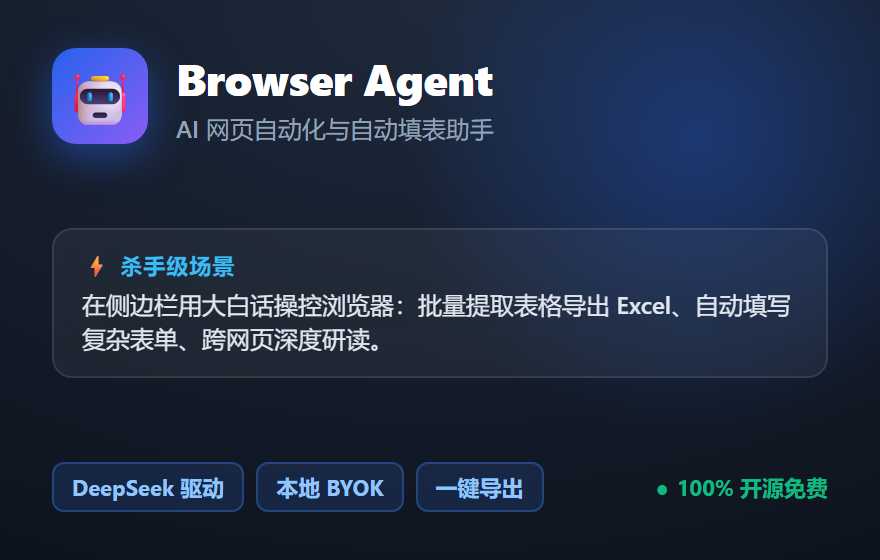
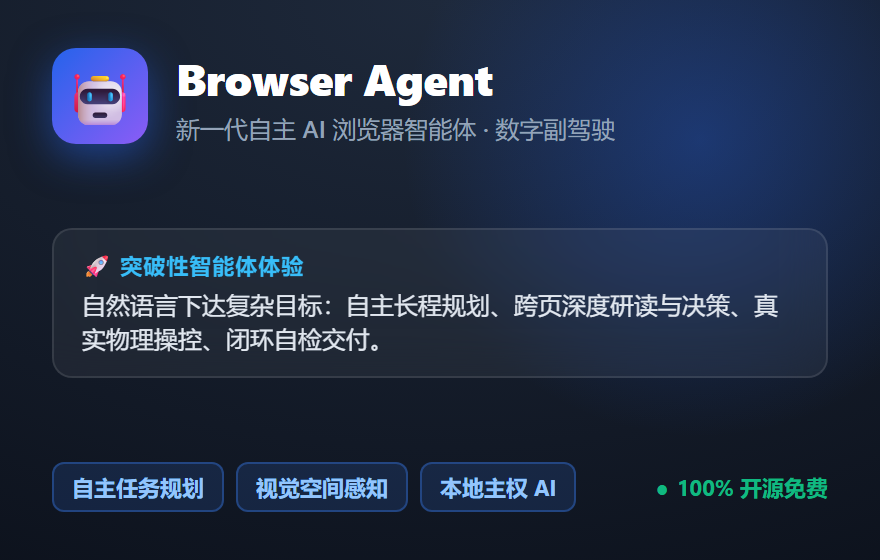
docs(positioning): elevate brand positioning to Next-Gen Autonomous AI Browser Agent

Changed region(s): [[0.092, 0.4554, 0.9205, 0.6375], [0.0614, 0.8196, 0.675, 0.9411], [0.1841, 0.2125, 0.7057, 0.2732]]

diff --git a/scripts/assets/store-hero.html b/scripts/assets/store-hero.html
@@ -467,14 +467,14 @@
     <div class="main-title-box">
       <div class="logo-badge">🤖</div>
       <div class="title-text">
-        <h1>Browser Agent <span class="pill-tag">v0.4.1</span></h1>
-        <p>让 DeepSeek 进驻 Chrome 侧边栏 · 像真人一样自动浏览、抓取与自动填表</p>
+        <h1>Browser Agent <span class="pill-tag">新一代自主智能体</span></h1>
+        <p>感知 · 规划 · 跨页探索 · 物理级操控 · 自我校验 — 个人专属的数字副驾驶</p>
       </div>
     </div>
     <div class="feature-chips">
-      <div class="chip">✨ 原生 DeepSeek 思考模型</div>
-      <div class="chip">🎯 视觉 Set-of-Marks 定位</div>
-      <div class="chip">🔒 100% 隐私零中转 (BYOK)</div>
+      <div class="chip">🧠 自主任务规划与自检闭环</div>
+      <div class="chip">👁 真实物理操控 (CDP + 空间视觉)</div>
+      <div class="chip">🔒 本地主权 AI (DeepSeek / Ollama)</div>
     </div>
   </div>
 
@@ -595,33 +595,33 @@
 
         <div class="sidepanel-chat">
           <div class="user-bubble">
-            提取前 3 条热门文章的标题、分数与评论数，整理成表格
+            调研 Hacker News 前 3 条热门技术议题，深入研读核心论点并生成对比研报
           </div>
 
           <div class="agent-steps">
             <div class="step-item">
-              <span>🧭</span> 已导航至 news.ycombinator.com
+              <span>🧭</span> 自主规划：拆解为 4 步探索路径（信息发现 ➔ 视觉定位 ➔ 跨页研读 ➔ 自检验收）
             </div>
             <div class="step-item">
-              <span>👁</span> 视觉感知：检测到 14 个可交互元素 (Set-of-Marks)
+              <span>👁</span> 空间感知：识别 18 个交互元素 (Set-of-Marks)，模拟可信物理点击
             </div>
             <div class="step-item success">
-              <span>✔</span> 结构化数据抽取完成 (3 条记录)
+              <span>✔</span> 跨页长文研读与自检验收通过（任务目标完全达成）
             </div>
           </div>
 
           <div class="result-card">
             <div style="font-size: 11px; font-weight: 700; color: #334155; display: flex; justify-content: space-between;">
-              <span>📊 网页数据提取结果</span>
-              <span style="color: #10b981; font-weight: 600;">已格式化</span>
+              <span>📊 深度自主研报与洞察提炼</span>
+              <span style="color: #10b981; font-weight: 600;">已生成</span>
             </div>
             <table class="result-table">
               <thead>
                 <tr>
                   <th style="width: 20px;">#</th>
-                  <th>标题</th>
-                  <th style="width: 45px;">分数</th>
-                  <th style="width: 45px;">评论</th>
+                  <th style="width: 130px;">核心议题</th>
+                  <th style="width: 40px;">热度</th>
+                  <th>Agent 核心论点提炼与洞察</th>
                 </tr>
               </thead>
               <tbody>
@@ -629,23 +629,23 @@
                   <td>1</td>
                   <td>DeepSeek-V3 架构解析</td>
                   <td>682</td>
-                  <td>214</td>
+                  <td>MLA 潜在注意力机制大幅压降推理显存，开源 MoE 经济性突破</td>
                 </tr>
                 <tr>
                   <td>2</td>
                   <td>SQLite in Production</td>
                   <td>418</td>
-                  <td>165</td>
+                  <td>本地优先（Local-first）范式兴起，无网络依赖带来极致响应体验</td>
                 </tr>
                 <tr>
                   <td>3</td>
                   <td>Building Browser Agents</td>
                   <td>329</td>
-                  <td>88</td>
+                  <td>原生 CDP 协议取代脆弱 DOM 注入，视觉标记闭环解决复杂交互</td>
                 </tr>
               </tbody>
             </table>
-            <button class="export-btn">📥 导出为 Markdown / JSON / CSV</button>
+            <button class="export-btn">📥 导出为深度研报 (Markdown / JSON)</button>
           </div>
         </div>
       </div>

diff --git a/scripts/assets/promo-tile.html b/scripts/assets/promo-tile.html
@@ -124,22 +124,22 @@
     <div class="icon-box">🤖</div>
     <div>
       <div class="brand-title">Browser Agent</div>
-      <div class="brand-desc">AI 网页自动化与自动填表助手</div>
+      <div class="brand-desc">新一代自主 AI 浏览器智能体 · 数字副驾驶</div>
     </div>
   </div>
 
   <div class="middle-section">
-    <div class="scenario-title">⚡ 杀手级场景</div>
+    <div class="scenario-title">🚀 突破性智能体体验</div>
     <div class="scenario-text">
-      在侧边栏用大白话操控浏览器：批量提取表格导出 Excel、自动填写复杂表单、跨网页深度研读。
+      自然语言下达复杂目标：自主长程规划、跨页深度研读与决策、真实物理操控、闭环自检交付。
     </div>
   </div>
 
   <div class="bottom-section">
     <div class="chips-group">
-      <div class="pill">DeepSeek 驱动</div>
-      <div class="pill">本地 BYOK</div>
-      <div class="pill">一键导出</div>
+      <div class="pill">自主任务规划</div>
+      <div class="pill">视觉空间感知</div>
+      <div class="pill">本地主权 AI</div>
     </div>
     <div class="free-badge">
       <span>●</span> 100% 开源免费

diff --git a/README.md b/README.md
@@ -5,7 +5,9 @@
 <h1 align="center">Browser Agent</h1>
 
 <p align="center">
-  AI-powered browser automation from your sidebar — works with any OpenAI-compatible endpoint.
+  <strong>Next-Generation Autonomous AI Browser Agent · Your Personal Digital Copilot</strong>
+  <br>
+  Goal-Driven · Autonomous Planning · Cross-Tab Exploration · Native CDP Input · Self-Verification
   <br>
   <a href="README.zh-CN.md">中文文档</a> · <a href="https://github.com/lusipad/browser-agent/releases">Releases</a> · <a href="PRIVACY.md">Privacy Policy</a>
 </p>
@@ -20,7 +22,7 @@
 
 ---
 
-A Chrome extension (MV3) that lets you control your browser with natural language. Type a task in the sidebar, and the AI agent opens tabs, clicks, fills forms, reads pages, and reports back — all with your own model and API key.
+**Browser Agent** is a **next-generation autonomous browser agent** living directly inside your Chrome side panel. Far more than a simple scraping tool or macro script, it is a complete cognitive intelligence system equipped with **perception, goal planning, native physical input, and self-correcting validation**. Give it an open-ended goal, and it navigates, reasons, and executes across complex modern web applications just like a human expert — delivering verifiable, end-to-end outcomes.
 
 <p align="center">
   <img src="docs/screenshots/demo.gif" width="700" alt="Browser Agent Live Demo">
@@ -31,15 +33,15 @@ A Chrome extension (MV3) that lets you control your browser with natural languag
   <img src="docs/screenshots/form-filling.png" width="480" alt="Form filling scenario">
 </p>
 
-## 🎯 Killer Use Cases
+## 🚀 Agent Superpowers
 
-Control your browser like a human assistant without writing brittle selectors or scripts:
+Break free from rigid single-step commands. The agent navigates the web with human-like cognitive agency:
 
-- 📊 **Smart Web Scraping & Data Extraction** — Extract table data, e-commerce pricing, product specs, or job posts into clean JSON/Markdown in one click.
-- ✍ **Autonomous Multi-Step Form Filling** — Simply describe what to fill; the agent identifies fields, dropdowns, and checkboxes to complete forms accurately.
-- 🔍 **Deep Research & Cross-Tab Navigation** — Let AI open tabs, navigate search results, read long articles, and synthesize comparative summaries.
-- 🤖 **Routine Browser Workflow Automation** — Automate repetitive web tasks, click-through flows, and page monitoring directly from the side panel.
-- 🔒 **100% Private & Local-First (BYOK)** — Direct connection to your own model provider (DeepSeek, OpenAI, Claude, or local Ollama). API keys never leave your machine.
+- 🧠 **Autonomous Planning & Self-Correction Loop** — Built on a Planner + Actor + Validator cognitive architecture. Given a high-level goal, it breaks down complex missions into executable steps, validates post-action state, dynamically course-corrects on obstacles, and self-verifies completion before delivery.
+- 🔍 **Deep Research & Multi-Tab Synthesis** — Autonomously spawns and organizes an "🤖 Agent" tab group, traverses multiple information sources, reads long-form technical literature, reconciles conflicting data, and synthesizes structured analytical reports.
+- ✍ **End-to-End Workflow Execution & Form Automation** — Cross-references data between systems to automate intricate workflows in modern internal dashboards, portals, and multi-step registration forms with trusted keystrokes and screenshot auditing.
+- 👁 **Native System-Level Control & Spatial Grounding** — Driven by Chrome DevTools Protocol (CDP) for authentic, trusted mouse and keyboard events (bypassing synthetic DOM event filters). Paired with Set-of-Marks visual tags to effortlessly conquer SPAs, nested Shadow DOMs, and cross-origin iframes.
+- 🔒 **Sovereign Local-First Architecture (Zero-Cloud)** — Liberate yourself from overpriced monthly subscriptions and cloud surveillance. Direct connection to DeepSeek, Claude, OpenAI, or 100% offline Ollama / vLLM. Zero intermediary servers, per-site authorization gating, and prompt-injection defenses.
 
 ## Features
 

diff --git a/README.zh-CN.md b/README.zh-CN.md
@@ -5,7 +5,9 @@
 <h1 align="center">Browser Agent</h1>
 
 <p align="center">
-  侧边栏 AI 浏览器智能体 — 接任意 OpenAI 兼容端点，密钥只存本机。
+  <strong>新一代自主 AI 浏览器智能体 · 个人专属的数字副驾驶</strong>
+  <br>
+  目标驱动 · 自主长程规划 · 跨页探索 · 物理级操控 · 结果自检验收
   <br>
   <a href="README.md">English</a> · <a href="https://github.com/lusipad/browser-agent/releases">Releases</a> · <a href="PRIVACY.md">隐私政策</a>
 </p>
@@ -20,7 +22,7 @@
 
 ---
 
-一个 Chrome 扩展（MV3）：在侧边栏用自然语言驱动浏览器。输入任务，AI 自动打开标签页、点击、填表、读取页面并汇报结果 — 用你自己的模型和 API Key。
+**Browser Agent** 是一款直接运行在 Chrome 原生侧边栏中的**新一代自主浏览器智能体（Next-Gen Autonomous Browser Agent）**。它不仅仅是一个自动化脚本或爬虫插件，而是具备**认知、规划、感知、物理操控与自我纠错闭环**的完整数字助手。下达一个开放的目标，它会像资深人类专家一样，自主在纷繁复杂的现代 Web 应用中探索、执行并交付确定性结果。
 
 <p align="center">
   <img src="docs/screenshots/demo.gif" width="700" alt="Browser Agent Live Demo">
@@ -31,15 +33,15 @@
   <img src="docs/screenshots/form-filling.png" width="480" alt="自动填表场景">
 </p>
 
-## 🎯 核心使用场景 (Killer Use Cases)
+## 🚀 突破性智能体能力 (Agent Superpowers)
 
-无需编写复杂的爬虫或自动化代码，只需在侧边栏说一句话：
+告别死板的单步指令，智能体以人类使用浏览器的方式自主理解并执行复杂使命：
 
-- 📊 **网页数据提取与结构化导出**：一键抓取复杂网页表格、电商比价、新闻列表或招聘信息，直接导出为结构化 JSON / Markdown。
-- ✍ **复杂多步骤表单自动填写**：AI 智能识别网页上的各类输入框、下拉单选与多选，自动填入并截图复核。
-- 🔍 **跨页面深度调查与提炼**：自动打开多标签页翻页检索、通读长文资讯，汇总提炼出结构化摘要与对比建议。
-- 🤖 **日常重复操作代劳**：自动点击翻页、监测页面动态更新、辅助网页交互测试。
-- 🔒 **100% 隐私优先（BYOK & 本地模型）**：直连官方 API（DeepSeek / OpenAI / Claude）或本地 Ollama，API Key 仅存本机，网页数据绝不出本地。
+- 🧠 **自主长程任务规划与自检闭环 (Autonomous Planning & Self-Correction)**：搭载 Planner + Actor + Validator 认知架构。面对开放性目标，智能体自主将复杂流程拆解为行动步骤，并在每步动作后验证页面状态，遇到阻碍自主重试纠偏，直至通过验收。
+- 🔍 **跨平台深度情报调研与决策提炼 (Deep Research & Multi-Tab Synthesis)**：自主跨多标签页并行检索、通读长篇文献资讯、对比多方数据差异，深度研读并输出结构化决策报告（Markdown / JSON）。
+- ✍ **复杂多步骤业务流端到端代劳 (End-to-End Workflow & Form Filling)**：跨系统比对信息，自动在现代复杂后台系统（报名、审批、入库、问卷）中智能定位层级表单并执行输入，附带截图复核。
+- 👁 **原生系统级物理操控与空间视觉 (Native CDP & Spatial Grounding)**：通过 Chrome 官方 CDP 协议生成真实可信的物理鼠标点击与键盘事件，告别脆弱的 DOM 注入；搭配 Set-of-Marks 视觉编号框，无惧复杂单页应用（SPA）、嵌套 Shadow DOM 与动态 iframe。
+- 🔒 **纯正本地主权与安全防线 (Sovereign BYOK & Zero-Cloud)**：摆脱昂贵的月费 SaaS 绑架与云端隐私顾虑。直接连接 DeepSeek 官方 API、Claude、OpenAI 或本地离线 Ollama / vLLM。数据 100% 留在本机，内置逐站授权与金融黑名单拦截。
 
 ## 特性
 
